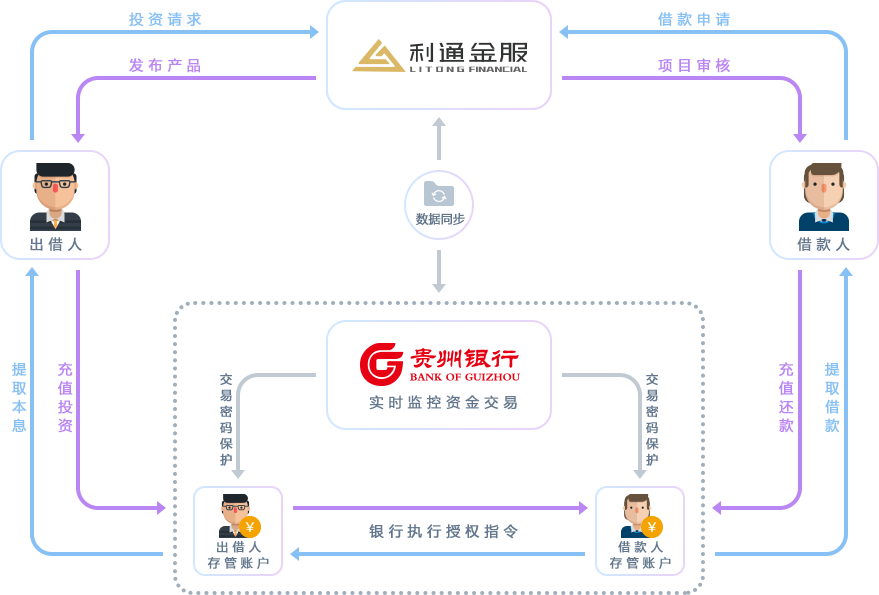
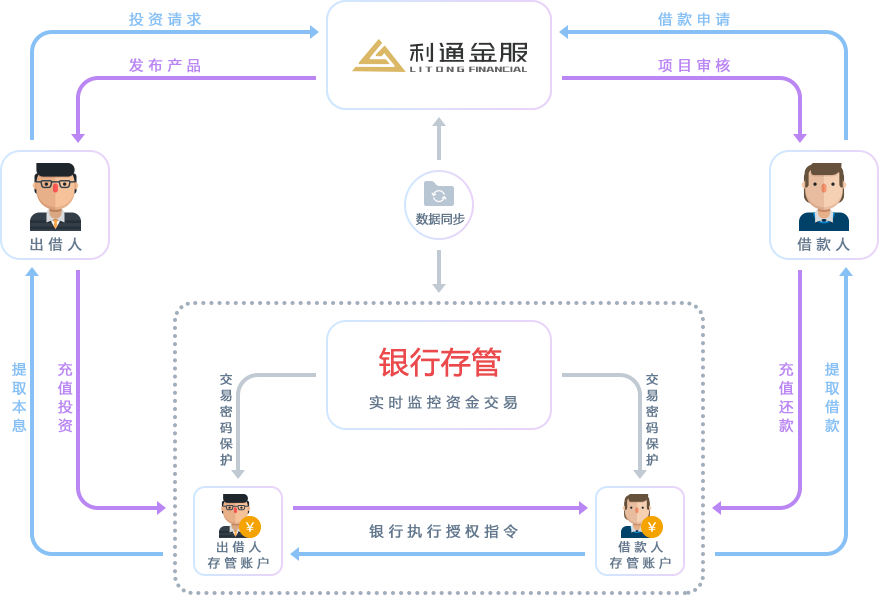
111

Changed region(s): [[0.3993, 0.5748, 0.5836, 0.6655]]

diff --git a/src/components/loan/overdueMondy.vue b/src/components/loan/overdueMondy.vue
@@ -1,0 +1,148 @@
+<template>
+    <div class="overview"  v-cloak>
+        <div class="awardListC">
+            <ul class="clearfix">
+                <li @click="Select(' ', 1)" class="awardList_active"><a>未处理逾期</a></li>
+                <li @click="Select(1, 1)"><a>已处理逾期</a></li>
+            </ul>
+        </div>
+        <div class="streamTypeC clearfix">
+            <label class="introlab">创建日期：</label>
+            <input class="laydate-icon fl input dateselinput" id="begintime" name="begintime" plugin="datepicker" placeholder="起始日期">
+            <span class="spanbetweeninput">~</span>
+            <input class="laydate-icon fl input dateselinput" id="endtime" name="endtime" plugin="datepicker" placeholder="结束日期">
+            <a class="redBtn" @click="Select('{{overdueType}}',1)">搜索</a>
+        </div>
+        <div class="content-rowlist" style="display:block">
+            <table class="table  table-bg table-border table-bordered table-striped">
+                <thead>
+                    <tr>
+                        <th>项目名称</th>
+                        <th>预期年化收益</th>
+                        <th>应还日期</th>
+                        <th>应还金额</th>
+                        <th>垫付日期</th>
+                    </tr>
+                </thead>
+                <tbody v-if="arrayList.length != 0">
+                    <tr v-for="(borrow,index) in arrayList" :key="index">
+                        <td>
+                            <router-link :to="'/product/PInfo?id='+borrow.id" target="_blank" class="c-000">{{borrow.title}}</router-link>
+                        </td>
+                        <td>{{borrow.rate}}%</td>
+                        <td>{{borrow.returnTime}}</td>
+                        <td>{{borrow.repayMoney}}元</td>
+                        <td>{{borrow.paytime}}</td>
+                    </tr>
+                </tbody>
+                <tbody v-if="arrayList.length == 0">
+                    <tr><td colspan="5">暂无逾期记录！</td></tr>
+                </tbody>
+            </table>
+        </div>
+        <div class="fenyeC">
+            <div class="pages mypage clearfix">
+                <div class="tcdPageCode" id="TcdPageCode" Totalpage=""></div>
+            </div>
+        </div>
+
+    </div>
+</template>
+
+<script>
+    import LTJF from '../../common/js/ltjf.js';
+    // 日期插件引用
+    import laydate from 'layui-laydate';
+    // import 'layui-laydate/dist/theme/default/laydate.css';
+    
+    export default {
+        data () {
+            return {
+                arrayList: [],
+                overdueType: '',
+                moneySel: 0.00,
+                moneyAll: ''
+            }
+        },
+        created(){
+            // 非父子组件通信发送
+            LTJF.$emit("txt",{header:true});
+        },
+        mounted:function(){
+            var self = this;
+            laydate.render({
+                elem: '#begintime', //指定元素
+                format: 'yyyy-MM-dd',
+                istime: true,
+                istoday: false,
+                choose: function (datas) {
+                    end.min = datas; //开始日选好后，重置结束日的最小日期
+                    end.start = datas //将结束日的初始值设定为开始日
+                }
+            });
+            laydate.render({
+                elem: '#endtime', //指定元素
+                format: 'yyyy-MM-dd',
+                istime: true,
+                istoday: false,
+                choose: function (datas) {
+                    start.max = datas; //结束日选好后，重置开始日的最大日期
+                }
+            });
+
+            self.Select(' ', 1);
+
+            //已选菜单切换
+            $(".awardListC ul li").click(function () {
+                $(".awardList_active").removeClass("awardList_active");
+                $(this).addClass("awardList_active");
+            })
+            
+        },
+        methods: {
+            Select:function(_overdueType, _page) {
+                var self = this;
+                self.$store.state._ajax(self,'/api/loan/overdue',
+                    {
+                        overdueType: _overdueType,
+                        page: _page,
+                        beginTime: self.$store.state.unixChange($("#begintime").val()),
+                        endTime: self.$store.state.unixChange($("#endtime").val())
+                    },
+                function (data) {
+                    //console.log(data)
+                    var applylist = data.data.data;
+                    if (applylist.length == 0) {
+                        //分页的重置
+                        $(".mypage").html("");
+                    } else {
+                        for (var i = 0; i < applylist.length; i++) {
+                            applylist[i].returnTime = applylist[i].returnTime.substr(0, 10);
+                            applylist[i].paytime = applylist[i].paytime.substr(0, 10);
+                        }
+
+                        //分页的重置
+                        $(".mypage").html("");
+                        $(".mypage").html('<div class="tcdPageCode" id="TcdPageCode" Totalpage=""></div>')
+                        $(".tcdPageCode").createPage({
+                            pageCount: data.data.last_page,
+                            current: parseInt(data.data.current_page),
+                            backFn: function (p) {
+                                self.Select(_overdueType, p);
+                            }
+                        });
+                    }
+                    self.arrayList = applylist;
+                    self.overdueType = _overdueType;
+                }, '');
+            }
+        }
+    }
+</script>
+
+<!-- Add "scoped" attribute to limit CSS to this component only -->
+<style>
+    .tcdPageCode{padding:0;}
+    .letterwebFooter .fenyeC{position:relative;top:0;}
+    .streamTypeC .dateselinput{font-size:12px;}
+</style>

diff --git a/src/components/account/wthdrawals.vue b/src/components/account/wthdrawals.vue
@@ -12,8 +12,12 @@
                 <span class="accountBalance"  v-cloak><label>{{accountInfo.useMoney}}</label>元</span>
                 <div class="rechargeline form-group">
                     <label>提现方式</label>
-                    <label class="rechargetypelab">快速提现<input type="radio" name="wType" value="1" checked class="rechargeMode"/></label>
-                    <label class="rechargetypelab rechargetypesel">普通提现<input type="radio" name="wType" value="2" class="rechargeMode" /></label>
+                    <!-- 个人 -->
+                    <label v-if="regType == 0" class="rechargetypelab">即时取现<input type="radio" name="wType" value="1" checked class="rechargeMode"/></label>
+                    <label v-if="regType == 0" class="rechargetypelab rechargetypesel">普通取现<input type="radio" name="wType" value="2" class="rechargeMode" /></label>
+                    <!-- 企业 -->
+                    <label v-if="regType == 1" class="rechargetypelab">快速提现<input type="radio" name="wType" value="1" checked class="rechargeMode"/></label>
+                    <label v-if="regType == 1" class="rechargetypelab rechargetypesel">普通提现<input type="radio" name="wType" value="2" class="rechargeMode" /></label>
                     <input class="form-submit required" type="hidden" name="wType" id="wType" value="2" />
                     <span class="tip"></span>
                 </div>
@@ -41,15 +45,16 @@
                     <a class="rechargeNow" id="SubmitBtn">确认提现</a>
                 </div>
                 <div class="explainarea WithdrawalsExplan">
-                    <p>1. 提现时间：全天24小时实时处理；</p>
-                    <p>2. 提现方式说明：</p>
+                    <p>1. 取现时间：全天24小时实时处理；</p>
+                    <p>2. 取现方式说明：</p>
                     <!-- <p>① 即时取现：支持工/招行，不论工作日与非工作日，均当天到账；</p> -->
-                    <p>① 快速提现（T+0）：工作日14:30前提交取现申请，当天到账；工作日14:30之后提交取现申请，以及非工作日提交取现申请，将顺延至下一个工作日到账；</p>
+                    <p v-if="regType == 0">① 即时取现：2小时内到账；</p>
+                    <p v-if="regType == 1">① 快速提现（T+0）：工作日14:30前提交取现申请，当天到账；工作日14:30之后提交取现申请，以及非工作日提交取现申请，将顺延至下一个工作日到账；</p>
                     <p>② 普通取现（T+1）：将在下一个工作日到账；</p>
                     <p>3. 国家法定节假日：国家法定节假日期间是否处理提现等事宜，具体以即时公告为准；</p>
                     <p>4. 请勿使用他人身份证进行实名认证，否则将导致无法提现；绑定的提现银行卡开户人需与实名认证信息一致；</p>
                     <p>5. 如果有任何疑问请随时咨询在线客服或致电服务热线400-606-1018；</p>
-                    <p>6.若充值金额没有及时到账，请随时咨询在线客服或致电服务热线400-606-1018；</p>
+                    <p>6. 若充值金额没有及时到账，请随时咨询在线客服或致电服务热线400-606-1018；</p>
 
                 </div>
             </div>
@@ -61,11 +66,17 @@
   export default {
     data () {
       return {
+        regType:0,
         sid: '',
         returndata: '',
         accountInfo: '',
         ret:''
       }
+    },
+    created(){
+        var self = this;
+        // 从localStorage获取用户是否是企业或个人
+        self.regType = JSON.parse(localStorage.ltjfUserInfo).regType;
     },
     mounted:function(){
         var self = this;
@@ -110,7 +121,16 @@
                 //$(form1 + " target = '_blank' " + form2).appendTo('body').submit();
                 $(form).appendTo('body').submit();
             }
-        },'', true)
+        },function(data){
+            if(data.code == 0){
+                    setTimeout(function(){layer.closeAll();self.$router.push({path:'/account/accountOpen'});}, 2000);
+                    layer.alert(data.msg, {icon: 5}, function () { layer.closeAll();self.$router.push({path:'/account/accountOpen'}); })
+                    
+            }else{
+                    setTimeout(function(){layer.closeAll();}, 2000);
+                    layer.alert(data.msg, {icon: 5}, function () { layer.closeAll(); })
+            }
+        }, true)
     },
     methods: {
     }

diff --git a/dist/index.html b/dist/index.html
@@ -1,1 +1,1 @@
-<!DOCTYPE html><html><head><meta charset=utf-8><meta name=keywords content=利通金服,苏州利通,利通,网上理财,短期投资,工资理财,定期理财><meta name=description content=利通金服是以P2P为模式的互联网金融信息中介服务平台,为广大出借人提供一个诚信、安全、便捷、高效、较低风险、较高预期收益的投资渠道,实现财富的保值增值。><meta name=viewport content="width=1024,initial-scale=0"><meta http-equiv=X-UA-Compatible content="IE=edge,chrome=1"><meta name=renderer content=webkit|ie-comp|ie-stand><meta http-equiv=Cache-Control content=no-siteapp><title>利通金服 - 银行存管互联网金融投资平台</title><link rel="SHORTCUT ICON" href=/static/img/favicon1.ico><link href=/static/Font-Awesome-3.2.1/css/bootstrap.css rel=stylesheet><link href=/static/Font-Awesome-3.2.1/css/font-awesome.min.css rel=stylesheet><!--[if lte IE 8]><script>alert('您的浏览器不支持访问，请使用Chrome浏览器或下载利通金服APP体验');window.location.href='https://cdn.litongjinfu.com/public/appdl/index.html';</script><![endif]--><script src=/static/js/jquery.js></script><link href=./static/css/app.616713b870c232e6f5056d966db9cac1.css rel=stylesheet></head><body><div id=app></div><div style=display:none;><img src=/static/img/logo.jpg alt=利通金服logo><p><a href=/#/about/aboutus>苏州利通金砖金融信息服务有限公司</a></p><p><a href=/#/about/newsDynamic>利通资讯</a></p></div><script type=text/javascript src=./static/js/manifest.baa203e50d8fef667259.js></script><script type=text/javascript src=./static/js/vendor.4be7d4b3cfa86d25d077.js></script><script type=text/javascript src=./static/js/app.c8e45c268e856241fda4.js></script></body></html>
+<!DOCTYPE html><html><head><meta charset=utf-8><meta name=keywords content=利通金服,苏州利通,利通,网上理财,短期投资,工资理财,定期理财><meta name=description content=利通金服是以P2P为模式的互联网金融信息中介服务平台,为广大出借人提供一个诚信、安全、便捷、高效、较低风险、较高预期收益的投资渠道,实现财富的保值增值。><meta name=viewport content="width=1024,initial-scale=0"><meta http-equiv=X-UA-Compatible content="IE=edge,chrome=1"><meta name=renderer content=webkit|ie-comp|ie-stand><meta http-equiv=Cache-Control content=no-siteapp><title>利通金服 - 银行存管互联网金融投资平台</title><link rel="SHORTCUT ICON" href=/static/img/favicon1.ico><link href=/static/Font-Awesome-3.2.1/css/bootstrap.css rel=stylesheet><link href=/static/Font-Awesome-3.2.1/css/font-awesome.min.css rel=stylesheet><!--[if lte IE 8]><script>alert('您的浏览器不支持访问，请使用Chrome浏览器或下载利通金服APP体验');window.location.href='https://cdn.litongjinfu.com/public/appdl/index.html';</script><![endif]--><script src=/static/js/jquery.js></script><link href=./static/css/app.2f9ef74a5791b7228713555fcfc84c61.css rel=stylesheet></head><body><div id=app></div><div style=display:none;><img src=/static/img/logo.jpg alt=利通金服logo><p><a href=/#/about/aboutus>苏州利通金砖金融信息服务有限公司</a></p><p><a href=/#/about/newsDynamic>利通资讯</a></p></div><script type=text/javascript src=./static/js/manifest.5b6ba56773aead610f81.js></script><script type=text/javascript src=./static/js/vendor.4be7d4b3cfa86d25d077.js></script><script type=text/javascript src=./static/js/app.a1c37d53b7b8898ed531.js></script></body></html>

diff --git a/src/components/service/special_Invite.vue b/src/components/service/special_Invite.vue
@@ -15,21 +15,23 @@
                         <img class="imgL_02" src="../../common/stylus/img/Special_inviteC_left_02.png"/>
                     </h3>
                     <div class="SL_P">
-                        <p>1、好友注册并认证返2元/人及100积分/人。</p>
-                        <p>2、首次充值≥100元好友与自己分别得2元/人。</p>
+                        <p>1、好友注册并认证返1元/人及100积分/人。</p>
+                        <p>2、首次充值≥100元好友与自己分别得1元/人。</p>
                         <p>3、好友首次投资≥1000元返200积分。</p>
                         <p>4、奖励金发放到个人账户，满50元可提现。</p>
-                        <p>5、好友有效邀请所得奖励金限80元/天。</p>
+                        <p>5、好友有效邀请所得奖励金限20元/天。</p>
                         <p>6、平台有权取消恶意刷奖用户的活动资格。</p>
                     </div>
+					<!--
                     <h3 class="SL_title">邀请好友</h3>
                     <div class="SL_P row">
-                        <img  :src="'https://pan.baidu.com/share/qrcode?w=512&h=512&url=https://cdn.litongjinfu.com/public/reg/regred/test.html?inviter='+userid"/>
+                        <img  :src="'https://pan.baidu.com/share/qrcode?w=512&h=512&url=https://cdn.litongjinfu.com/public/reg/regred/index.html?inviter='+userid"/>
                         <div style="display:inline-block;width:600px;">
                             <p class="top35">邀请专属二维码（邀请好友一起赚钱）。</p>
                             <p class="top35">获奖举例：邀请15人注册并充值100元可获得60元奖励金，好友可获得2元奖励金。</p>
                         </div>
                     </div>
+					-->
             </div>
         </div>
     </div>

diff --git a/src/components/service/bankDeposit.vue b/src/components/service/bankDeposit.vue
@@ -3,12 +3,12 @@
         <div class="bankDeposittopimg"></div>
         <!-- @*什么是银行存管*@ -->
         <div class="bankDepositC">
-            <div class="bankDepositBox" style="height:565px;">
-                <div class="bankDepTitleC">
+            <div class="bankDepositBox">
+                <!-- <div class="bankDepTitleC">
                     <h1>—— 拥抱合规 存管升级 ——</h1>
                     <p style="line-height:18px;">2017年5月9日，利通金服与贵州银行正式签署资金存管协议，这意味着利通金服平台将由原来的联合存管模式正式升级为直接存管模式，以保证符合监管要求。</p>
-                </div>
-                <div class="bankDepTitleline" style="top:-50px;">
+                </div> -->
+                <div class="bankDepTitleline">
                     <span>什么是银行存管<i></i></span>
                 </div>
                 <div class="bankDepInfo" style="top:-60px;">
@@ -56,7 +56,7 @@
             </div>
         </div>
         <!-- @*合规进程 实时更新*@ -->
-        <div class="bankDepositC bankDepProcess">
+        <!-- <div class="bankDepositC bankDepProcess">
             <div class="bankDepositBox">
                 <div class="bankDepTitleline" style="top:55px;">
                     <span style="color:#fff;">合规进程 实时更新<i class="whitei"></i></span>
@@ -67,7 +67,7 @@
                     <p style="margin-top:0;color:#586B81;font-size:12px;">如有疑问请联系在线客服或拨打客服热线 400-606-1018</p>
                 </div>
             </div>
-        </div>
+        </div> -->
     </div>
 </template>
 

diff --git a/src/components/product/Pinfo_order.vue b/src/components/product/Pinfo_order.vue
@@ -261,12 +261,12 @@
             let self = this;
             if (this.money <= 0) {
                 layer.alert("请输入正确的金额!",'',function(){layer.closeAll();});
-            } else if (this.money > parseFloat(this.accountInfo.useMoney)) {
-                layer.alert("你的余额不足以投资，请先充值!",'',function(){self.$router.push({path:'/account/recharge'});layer.closeAll(); setTimeout(function () { layer.closeAll();self.$router.push({path:'/account/recharge'}); }, 2000) });
+           // } else if (this.money > parseFloat(this.accountInfo.useMoney)) {
+           //     layer.alert("你的余额不足以投资，请先充值!",'',function(){self.$router.push({path:'/account/recharge'});layer.closeAll(); setTimeout(function () { layer.closeAll();self.$router.push({path:'/account/recharge'}); }, 2000) });
             } else if (this.money < parseFloat(this.productDetail.mini_money)  &&  parseFloat(this.productDetail.mini_money) < parseFloat(this.productDetail.amount)) {
                 layer.alert("投资金额不能低于最低限制!",'',function(){layer.closeAll();});
-            } else if (this.money > parseFloat(this.productDetail.amount)) {
-                layer.alert("投资金额不能大于剩余金额!",'',function(){layer.closeAll();});
+           // } else if (this.money > parseFloat(this.productDetail.amount)) {
+           //     layer.alert("投资金额不能大于剩余金额!",'',function(){layer.closeAll();});
             } else {
                 // self.$router.push({path:"/product/InvestConfirm?id=" + self.productId + "&money=" + self.money});
                 self.investConfirm();

diff --git a/src/components/about/corpPartner.vue b/src/components/about/corpPartner.vue
@@ -20,7 +20,7 @@
         <div class="bodygrayBG">
         <div class="newsinfo-intro content">
             <ul class="partnerul">
-                <li>
+                <!-- <li>
                     <div class="fl" style="">
                         <img src="../../common/stylus/0818new/aboutus_partner_gzyh_img.png" alt="" />
                     </div>
@@ -28,7 +28,7 @@
                         <h3>贵州银行</h3>
                         <p>贵州银行股份有限公司于2012年10月11日正式挂牌开业，是以遵义市商业银行、六盘水市商业银行、安顺市商业银行为基础合并重组设立的省级地方法人金融机构，是贵州省委、省政府直接领导下的国有大型企业。截至2017年3月31日，贵州银行资产总额2521.82亿元，全行共有市州分行级机构9个、营业机构209个，实现了全省县域机构全覆盖。在中国银行业协会公布的《2016年中国前100家银行排名》中，贵州银行已跃居第61位。</p>
                     </div>
-                </li>
+                </li> -->
                 <li>
                     <div class="fl" style="">
                         <img src="../../common/stylus/img/partner_tdkj1.jpg" alt="" />

diff --git a/src/components/account/Feedback.vue b/src/components/account/Feedback.vue
@@ -24,6 +24,7 @@
         <div class="Feedbacklist" v-if="feedbacktype == 1">
             <ul>
                 <li class="row" v-for="(feedback,index) in feedbacklist" :key="index"><label :title="feedback.content">{{feedback.content}}</label><span>{{feedback.createTime}}</span></li>
+                <li v-if="feedbacklist.length == 0" style="text-align:center;">您还没有提交过任何反馈！</li>
             </ul>
         </div>
     </div>
@@ -78,7 +79,9 @@
                             }
                         }
                         self.feedbacklist = feedbacklist;
-                    }, '', true);
+                    }, function(data){
+                        self.feedbacklist ='';
+                    }, true);
             }
         }
     }

diff --git a/src/components/account/recharge.vue b/src/components/account/recharge.vue
@@ -106,7 +106,16 @@
                 var form = data.data.substr(start, end - start);
                 $(form).appendTo('body').submit();
             }
-        }, '', true)
+        }, function(data){
+            if(data.code == 0){
+                    setTimeout(function(){layer.closeAll();self.$router.push({path:'/account/accountOpen'});}, 2000);
+                    layer.alert(data.msg, {icon: 5}, function () { layer.closeAll();self.$router.push({path:'/account/accountOpen'}); })
+                    
+            }else{
+                    setTimeout(function(){layer.closeAll();}, 2000);
+                    layer.alert(data.msg, {icon: 5}, function () { layer.closeAll(); })
+            }
+        }, true)
     },
     methods: {
     }

diff --git a/src/components/account/friends.vue b/src/components/account/friends.vue
@@ -3,7 +3,7 @@
         <div class="graph">
             我的好友 
             <i>小伙伴就在身边？<br />赶紧扫一扫您的专属推荐二维码</i>
-            <img class="inviteFriendsImg" :src="'https://pan.baidu.com/share/qrcode?w=512&h=512&url=https://cdn.litongjinfu.com/public/reg/regred/test.html?inviter='+userid" />
+            <img class="inviteFriendsImg" :src="'https://pan.baidu.com/share/qrcode?w=512&h=512&url=https://cdn.litongjinfu.com/public/reg/regred/index.html?inviter='+userid" />
         </div>
         <div class="chge"></div>
         <div v-if="friendsNum>0" class="commissionGetC" v-cloak style="padding: 15px 30px 0 30px;">

diff --git a/src/components/service/insurance.vue b/src/components/service/insurance.vue
@@ -63,8 +63,8 @@
             <li class="clearfix">
                 <img src="../../common/stylus/img/moneysafeProtece_img1.png" alt="Alternate Text" />
                 <div>
-                    <h3>贵州银行第三方存管</h3>
-                    <p>与贵州银行签订合作协议，用户资金与平台资金实行账户隔离，分账管理。</p>
+                    <h3>第三方银行存管</h3>
+                    <p>与存管银行签订合作协议，用户资金与平台资金实行账户隔离，分账管理。</p>
                 </div>
             </li>
             <li class="clearfix" style="padding: 30px 37px;">

diff --git a/src/components/header/loginheader.vue b/src/components/header/loginheader.vue
@@ -1,6 +1,6 @@
 <template>
   <div class="hello">
-      <div class="topnav" style="background:#fff;height:40px;width:100%;">
+      <div class="topnav" style="background:#fff;height:40px;line-height:40px;width:100%;">
         <div class="wp clearfix">
             <div class="fl wp-ll clearfix">
                 <span class="fl" style="padding:0 0;"><img src="../../common/stylus/img/index_top_tel_icon.png" /></span>
